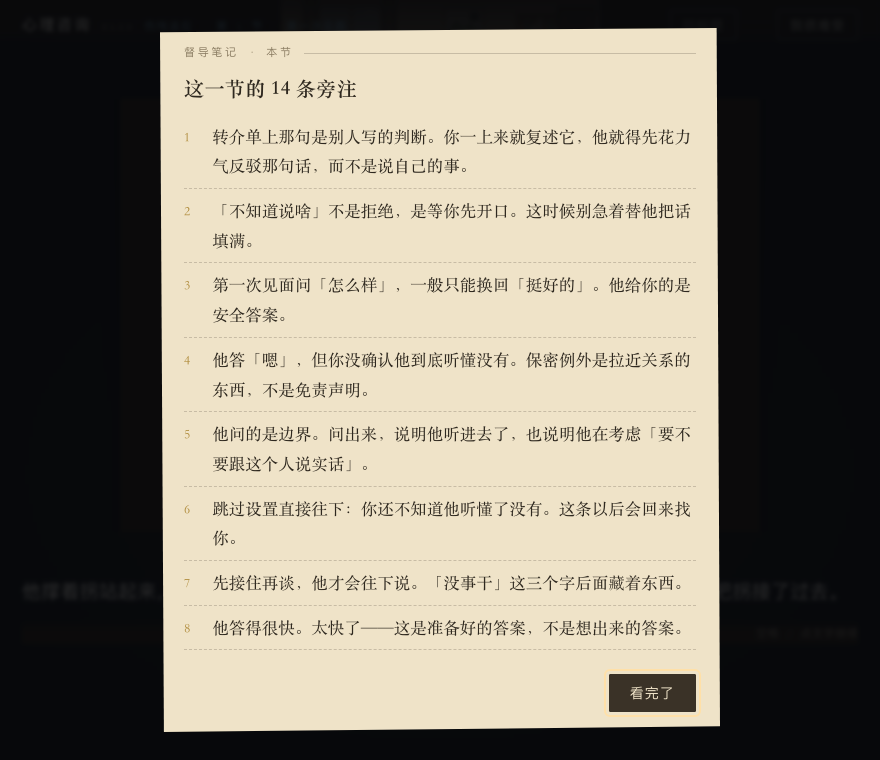
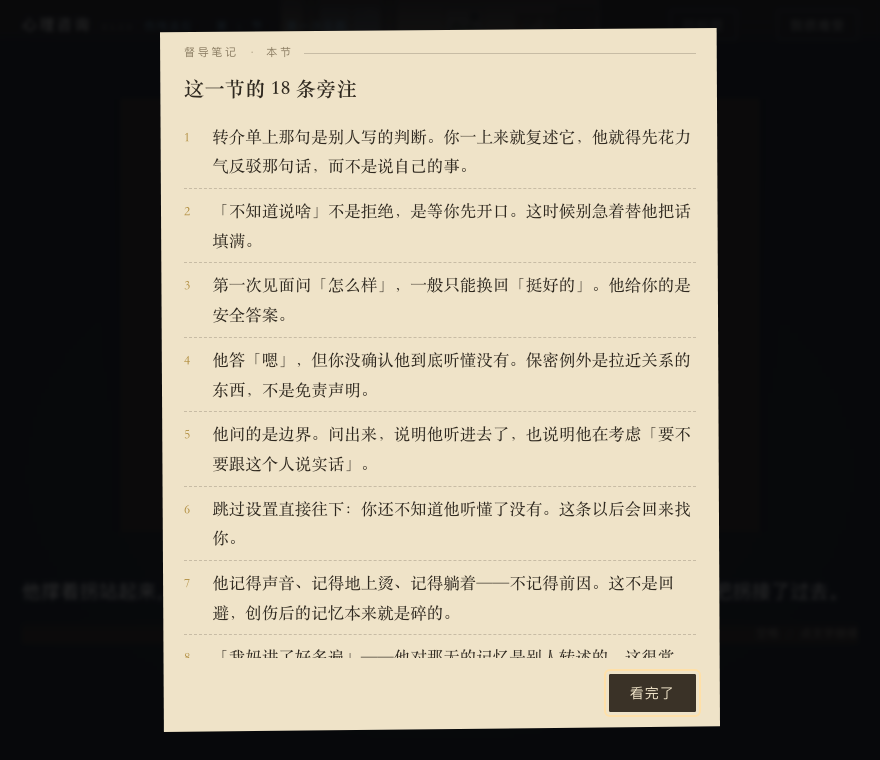
feat(v2-D4~D5): 第 1、2 节台词写实
第 1 节（82 节点）：补上「他只谈车祸」那一段——他只能说出还记得的部分
（很响、地上很烫、躺着），记不清前因；他把整件事说成一份经过，一句「我难受」都没有。
收尾加了他先看一眼钟再答应下周，让「配合不是愿意」落地。

第 2 节（94 节点）：补「阿姨也是个人」三支（她孩子还在老家 / 我不用她可怜 / 她其实挺累的），
再接核心洞察两句——「你怕的不是她照顾你，是她看见你需要照顾」。
他没有说完的那半句话留在 data 里，不替他说完。

验收：node tests/run-all.mjs 六步全绿；节点 238（s1:82 s2:94 s3:57 + 终章 5），50 个选项全部可到终章

Changed region(s): [[0.2455, 0.7566, 0.767, 0.8776], [0.3068, 0.0908, 0.3375, 0.1211]]

diff --git a/心理咨询.html b/心理咨询.html
@@ -1969,6 +1969,57 @@ const XU_S1 = {
     type: 'say', who: '旁白',
     text: '房间里几样东西，箭头标出了它们是干什么用的。',
     allowItems: ['referral', 'tissue', 'clock', 'sofa'],
+    next: 'v1',
+  },
+
+  // ---- 车祸：他主动提，但只提「还记得」的那部分 ----
+  // 这一段是本节的骨：他能说的只有事故，说不出的都在事故之前。
+  'v1': {
+    type: 'say', who: '旁白',
+    text: '他把拐杖往身边挪了挪，忽然开口。',
+    next: 'v2',
+  },
+  'v2': { type: 'say', who: '许予安', text: '那天的事……我记不太清了。', next: 'v3' },
+  'v3': { type: 'say', who: '许予安', text: '就记得很响。还有地上很烫。', next: 'v4' },
+  'v4': { type: 'say', who: '许予安', text: '（停了停）我是不是该从头说说？', next: 'cv' },
+  'cv': {
+    type: 'choice',
+    prompt: '他把话头递过来了',
+    options: [
+      { key: 'A', label: '那就说说你还记得的部分。', next: 'va1', flag: 'crashParts' },
+      { key: 'B', label: '「记不清」是当时就模糊，还是后来想不起来？', next: 'vb1', flag: 'crashMemory' },
+      { key: 'C', label: '不记得也没关系。', next: 'vc1', flag: 'crashSkip' },
+    ],
+  },
+  'va1': { type: 'say', who: '许予安', text: '我记得我躺着。有人在喊，喊什么听不清。', next: 'va2' },
+  'va2': { type: 'say', who: '许予安', text: '后来就是在医院了，中间啥也没有。', next: 'va3' },
+  'va3': {
+    type: 'say', note: { kind: 'supervision' },
+    text: '他记得声音、记得地上烫、记得躺着——不记得前因。这不是回避，创伤后的记忆本来就是碎的。',
+    next: 'vd',
+  },
+  'vb1': { type: 'say', who: '许予安', text: '（想了想）当时就是糊的。', next: 'vb2' },
+  'vb2': { type: 'say', who: '许予安', text: '后来我妈跟我讲了好几遍，我才知道那天我走到马路中间去了。', next: 'vb3' },
+  'vb3': {
+    type: 'say', note: { kind: 'supervision' },
+    text: '「我妈讲了好多遍」——他对那天的记忆是别人转述的。这很常见，也很要紧：他手上没有自己的版本。',
+    next: 'vd',
+  },
+  'vc1': { type: 'say', who: '许予安', text: '……嗯。', next: 'vc2' },
+  'vc2': {
+    type: 'say', note: { kind: 'supervision' },
+    text: '「没关系」把门关上了，但没锁。后面还能再敲一次，只是别在这儿敲。',
+    next: 'vd',
+  },
+  'vd': {
+    type: 'say', who: '旁白',
+    text: '他讲住院、讲手术、讲第一次下地。语气很平，像在说别人的事。',
+    next: 've',
+  },
+  've': { type: 'say', who: '许予安', text: '就这样。', next: 'vf' },
+  'vf': {
+    type: 'say', note: { kind: 'supervision' },
+    text: '他把整件事说成了一份经过。你听不到一句「我难受」——第一次见面，这很正常，别急着要。',
     next: 'e1',
   },
 
@@ -2078,9 +2129,10 @@ const XU_S1 = {
   // ---- 收尾 ----
   'm1': { type: 'say', who: '咨询师', text: '今天快到了。下礼拜这个时间，再来一次？', next: 'm2' },
   'm2': { type: 'say', who: '许予安', text: '行。', next: 'm3' },
-  'm3': {
+  'm3': { type: 'say', who: '旁白', text: '他看了一眼墙上的钟，又收回去。', next: 'm4' },
+  'm4': {
     type: 'say', note: { kind: 'supervision' },
-    text: '他答应得太快了。快得像在敷衍——这是「配合」，不是「愿意」。',
+    text: '他答应得太快了，还先看了一眼钟。快得像在敷衍——这是「配合」，不是「愿意」。',
     next: 'hw1',
   },
 
@@ -2243,6 +2295,48 @@ const XU_S2 = {
   'h5': {
     type: 'say', note: { kind: 'supervision' },
     text: '他把「我需要人」和「我很惨」绑成了一件事。这个结，是这条线要解的东西。',
+    next: 'w6',
+  },
+
+  // ---- 阿姨也是个人 ----
+  'w6': { type: 'say', who: '旁白', text: '门外传来一声塑料凳子挪动的响。她在外面坐着。', next: 'w7' },
+  'w7': { type: 'say', who: '许予安', text: '……她孩子还在老家。', next: 'cw' },
+  'cw': {
+    type: 'choice',
+    prompt: '他自己提了一句',
+    options: [
+      { key: 'A', label: '她跟你提过？', next: 'w1', flag: 'auntStory' },
+      { key: 'B', label: '你想过她也不容易吗？', next: 'w3', flag: 'auntGuilt' },
+      { key: 'C', label: '（不接，等他往下说）', next: 'w5', flag: 'auntWait' },
+    ],
+  },
+  'w1': { type: 'say', who: '许予安', text: '提过一次。说一年见一回。', next: 'w2' },
+  'w2': {
+    type: 'say', note: { kind: 'supervision' },
+    text: '「一年见一回」这句他记得。说明他听过，也说明这句话在他那儿放着没扔。',
+    next: 'x1',
+  },
+  'w3': { type: 'say', who: '许予安', text: '（很快）我不用她可怜。', next: 'w4' },
+  'w4': {
+    type: 'say', note: { kind: 'supervision' },
+    text: '「可怜」是他自己加的词，阿姨没这么说过。他在替她说话，也在替自己防守。',
+    next: 'x1',
+  },
+  'w5': { type: 'say', who: '许予安', text: '（很久）她其实挺累的。', next: 'w5b' },
+  'w5b': {
+    type: 'say', note: { kind: 'supervision' },
+    text: '他第一个说出来的不是「她可怜」，是「她累」。这一句里没有他自己——所以他敢说。',
+    next: 'x1',
+  },
+
+  // ---- 核心洞察：被照顾＝被看见＝被确认很惨 ----
+  'x1': { type: 'say', who: '咨询师', text: '你怕的好像不是她照顾你。', next: 'x2' },
+  'x2': { type: 'say', who: '咨询师', text: '是她看见你需要照顾。', next: 'x3' },
+  'x3': { type: 'say', who: '许予安', text: '……', next: 'x4' },
+  'x4': { type: 'say', who: '许予安', text: '（很小声）那样我就……', next: 'x5' },
+  'x5': {
+    type: 'say', note: { kind: 'supervision' },
+    text: '他没说完。这句半截话就是这条线的骨。别替他说完，也别忘了它。',
     next: 'diary',
   },
 

diff --git a/src/story.js b/src/story.js
@@ -114,6 +114,57 @@ const XU_S1 = {
     type: 'say', who: '旁白',
     text: '房间里几样东西，箭头标出了它们是干什么用的。',
     allowItems: ['referral', 'tissue', 'clock', 'sofa'],
+    next: 'v1',
+  },
+
+  // ---- 车祸：他主动提，但只提「还记得」的那部分 ----
+  // 这一段是本节的骨：他能说的只有事故，说不出的都在事故之前。
+  'v1': {
+    type: 'say', who: '旁白',
+    text: '他把拐杖往身边挪了挪，忽然开口。',
+    next: 'v2',
+  },
+  'v2': { type: 'say', who: '许予安', text: '那天的事……我记不太清了。', next: 'v3' },
+  'v3': { type: 'say', who: '许予安', text: '就记得很响。还有地上很烫。', next: 'v4' },
+  'v4': { type: 'say', who: '许予安', text: '（停了停）我是不是该从头说说？', next: 'cv' },
+  'cv': {
+    type: 'choice',
+    prompt: '他把话头递过来了',
+    options: [
+      { key: 'A', label: '那就说说你还记得的部分。', next: 'va1', flag: 'crashParts' },
+      { key: 'B', label: '「记不清」是当时就模糊，还是后来想不起来？', next: 'vb1', flag: 'crashMemory' },
+      { key: 'C', label: '不记得也没关系。', next: 'vc1', flag: 'crashSkip' },
+    ],
+  },
+  'va1': { type: 'say', who: '许予安', text: '我记得我躺着。有人在喊，喊什么听不清。', next: 'va2' },
+  'va2': { type: 'say', who: '许予安', text: '后来就是在医院了，中间啥也没有。', next: 'va3' },
+  'va3': {
+    type: 'say', note: { kind: 'supervision' },
+    text: '他记得声音、记得地上烫、记得躺着——不记得前因。这不是回避，创伤后的记忆本来就是碎的。',
+    next: 'vd',
+  },
+  'vb1': { type: 'say', who: '许予安', text: '（想了想）当时就是糊的。', next: 'vb2' },
+  'vb2': { type: 'say', who: '许予安', text: '后来我妈跟我讲了好几遍，我才知道那天我走到马路中间去了。', next: 'vb3' },
+  'vb3': {
+    type: 'say', note: { kind: 'supervision' },
+    text: '「我妈讲了好多遍」——他对那天的记忆是别人转述的。这很常见，也很要紧：他手上没有自己的版本。',
+    next: 'vd',
+  },
+  'vc1': { type: 'say', who: '许予安', text: '……嗯。', next: 'vc2' },
+  'vc2': {
+    type: 'say', note: { kind: 'supervision' },
+    text: '「没关系」把门关上了，但没锁。后面还能再敲一次，只是别在这儿敲。',
+    next: 'vd',
+  },
+  'vd': {
+    type: 'say', who: '旁白',
+    text: '他讲住院、讲手术、讲第一次下地。语气很平，像在说别人的事。',
+    next: 've',
+  },
+  've': { type: 'say', who: '许予安', text: '就这样。', next: 'vf' },
+  'vf': {
+    type: 'say', note: { kind: 'supervision' },
+    text: '他把整件事说成了一份经过。你听不到一句「我难受」——第一次见面，这很正常，别急着要。',
     next: 'e1',
   },
 
@@ -223,9 +274,10 @@ const XU_S1 = {
   // ---- 收尾 ----
   'm1': { type: 'say', who: '咨询师', text: '今天快到了。下礼拜这个时间，再来一次？', next: 'm2' },
   'm2': { type: 'say', who: '许予安', text: '行。', next: 'm3' },
-  'm3': {
+  'm3': { type: 'say', who: '旁白', text: '他看了一眼墙上的钟，又收回去。', next: 'm4' },
+  'm4': {
     type: 'say', note: { kind: 'supervision' },
-    text: '他答应得太快了。快得像在敷衍——这是「配合」，不是「愿意」。',
+    text: '他答应得太快了，还先看了一眼钟。快得像在敷衍——这是「配合」，不是「愿意」。',
     next: 'hw1',
   },
 
@@ -388,6 +440,48 @@ const XU_S2 = {
   'h5': {
     type: 'say', note: { kind: 'supervision' },
     text: '他把「我需要人」和「我很惨」绑成了一件事。这个结，是这条线要解的东西。',
+    next: 'w6',
+  },
+
+  // ---- 阿姨也是个人 ----
+  'w6': { type: 'say', who: '旁白', text: '门外传来一声塑料凳子挪动的响。她在外面坐着。', next: 'w7' },
+  'w7': { type: 'say', who: '许予安', text: '……她孩子还在老家。', next: 'cw' },
+  'cw': {
+    type: 'choice',
+    prompt: '他自己提了一句',
+    options: [
+      { key: 'A', label: '她跟你提过？', next: 'w1', flag: 'auntStory' },
+      { key: 'B', label: '你想过她也不容易吗？', next: 'w3', flag: 'auntGuilt' },
+      { key: 'C', label: '（不接，等他往下说）', next: 'w5', flag: 'auntWait' },
+    ],
+  },
+  'w1': { type: 'say', who: '许予安', text: '提过一次。说一年见一回。', next: 'w2' },
+  'w2': {
+    type: 'say', note: { kind: 'supervision' },
+    text: '「一年见一回」这句他记得。说明他听过，也说明这句话在他那儿放着没扔。',
+    next: 'x1',
+  },
+  'w3': { type: 'say', who: '许予安', text: '（很快）我不用她可怜。', next: 'w4' },
+  'w4': {
+    type: 'say', note: { kind: 'supervision' },
+    text: '「可怜」是他自己加的词，阿姨没这么说过。他在替她说话，也在替自己防守。',
+    next: 'x1',
+  },
+  'w5': { type: 'say', who: '许予安', text: '（很久）她其实挺累的。', next: 'w5b' },
+  'w5b': {
+    type: 'say', note: { kind: 'supervision' },
+    text: '他第一个说出来的不是「她可怜」，是「她累」。这一句里没有他自己——所以他敢说。',
+    next: 'x1',
+  },
+
+  // ---- 核心洞察：被照顾＝被看见＝被确认很惨 ----
+  'x1': { type: 'say', who: '咨询师', text: '你怕的好像不是她照顾你。', next: 'x2' },
+  'x2': { type: 'say', who: '咨询师', text: '是她看见你需要照顾。', next: 'x3' },
+  'x3': { type: 'say', who: '许予安', text: '……', next: 'x4' },
+  'x4': { type: 'say', who: '许予安', text: '（很小声）那样我就……', next: 'x5' },
+  'x5': {
+    type: 'say', note: { kind: 'supervision' },
+    text: '他没说完。这句半截话就是这条线的骨。别替他说完，也别忘了它。',
     next: 'diary',
   },
 
